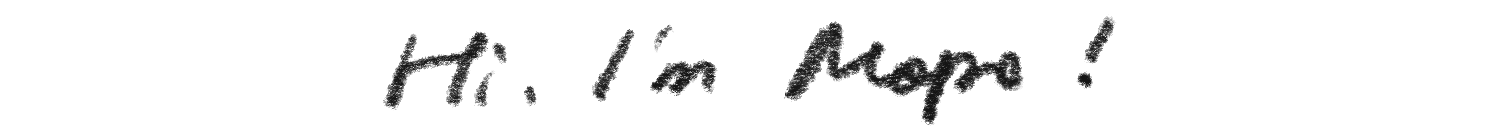
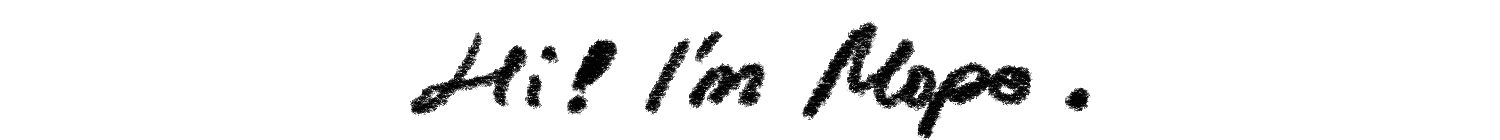
style(site): refine typography and hide inner-page map - tune v2 intro, announcement, and News list typography - use separate handwriting test images for home and About - show the Map toggle only on the homepage while preserving its code

Changed region(s): [[0.2453, 0.1143, 0.7667, 1.0]]

diff --git a/assets/css/custom.css b/assets/css/custom.css
@@ -67,7 +67,6 @@ hgroup > h1,
 hgroup > h2,
 .card > div > h2,
 .responsive-title,
-.blog-title,
 .home-v2 .home-v2__works-heading > h2 {
     font-family: var(--font-mopo-cm);
     font-style: normal !important;
@@ -174,7 +173,7 @@ html.announcement-dismissed .announcement-bar {
     padding: 0;
     box-sizing: border-box;
     color: inherit;
-    font-size: 0.78rem;
+    font-size: 0.936rem;
     font-weight: 450;
     line-height: 1;
     text-decoration: none;
@@ -203,7 +202,7 @@ html.announcement-dismissed .announcement-bar {
 
 .announcement-type {
     color: inherit;
-    font-size: 0.68rem;
+    font-size: 0.816rem;
     font-weight: 700;
     letter-spacing: 0.065em;
     line-height: 1;
@@ -219,7 +218,7 @@ html.announcement-dismissed .announcement-bar {
 
 .announcement-arrow {
     margin-left: 0.45rem;
-    font-size: 1rem;
+    font-size: 1.2rem;
     line-height: 1;
     transition: transform 180ms ease;
 }
@@ -297,7 +296,7 @@ html.announcement-dismissed .announcement-bar {
         display: flex;
         justify-content: center;
         padding: 0;
-        font-size: 0.72rem;
+        font-size: 0.864rem;
         line-height: 1;
         white-space: nowrap;
     }
@@ -307,7 +306,7 @@ html.announcement-dismissed .announcement-bar {
     }
 
     .announcement-type {
-        font-size: 0.62rem;
+        font-size: 0.744rem;
         letter-spacing: 0.05em;
     }
 
@@ -315,14 +314,14 @@ html.announcement-dismissed .announcement-bar {
         display: inline;
         margin: 0;
         padding: 0;
-        font-size: 0.72rem;
+        font-size: 0.864rem;
         line-height: 1;
     }
 
     .announcement-arrow {
         position: static;
         margin-left: 0.35rem;
-        font-size: 0.9rem;
+        font-size: 1.08rem;
     }
 
     .announcement-close {
@@ -763,6 +762,10 @@ html.announcement-dismissed .announcement-bar {
         max-height: 100%;
         object-fit: contain;
     }
+
+    .home-v2 .home-v2__intro-strip--statement {
+        transform: translateY(1rem);
+    }
 }
 
 @media screen and (min-width: 768px) and (max-height: 800px) {
@@ -1101,12 +1104,13 @@ html.announcement-dismissed .announcement-bar {
     transform: translateX(5px);
 }
 
-/* 恢复旧版字体设定 */
 .blog-title {
     margin: 0 0 0.3rem 0;
     font-size: 1.2rem;
     color: #111;
-    font-weight: 700;
+    font-family: var(--font-mopo-af);
+    font-style: normal;
+    font-weight: 600;
     /* 核心修改：确保标题能自由伸展以占满空间 */
     flex: 1; 
     min-width: 0;
@@ -1189,12 +1193,18 @@ html.announcement-dismissed .announcement-bar {
 
 .about-content-wrapper .about-handwritten-intro {
     line-height: 0;
+    margin: 0 0 1.5rem;
 }
 
 .about-content-wrapper .about-handwritten-intro img {
     display: block;
     width: 100%;
     height: auto;
+    margin: 0;
+}
+
+.about-content-wrapper .about-handwritten-intro + p {
+    margin-top: 0;
 }
 
 .about-content-wrapper blockquote {
@@ -1747,8 +1757,14 @@ nav.categories > ul li > a {
     font-size: 0.89375rem;
 }
 
-.home-v2 .home-v2__placeholder-description {
-    font-size: 20.8px;
+.home-v2 .home-v2__intro-strip--collage .home-v2__placeholder-subtitle {
+    font-size: 30px;
+    font-weight: 700 !important;
+}
+
+.home-v2 .home-v2__intro-strip--collage .home-v2__placeholder-description {
+    font-size: 27.04px;
+    font-style: italic;
 }
 
 @media screen and (min-width: 768px) {

diff --git a/layouts/partials/header.html b/layouts/partials/header.html
@@ -10,7 +10,7 @@
       {{ .Site.Title }}
     </a>
   {{ end }}
-  {{ if site.Menus.main }}
+  {{ if and .IsHome site.Menus.main }}
     <ul>
       <li>
         <button class="btn mopo-map-toggle" id="menu-toggle" aria-expanded="false" type="button" title="Map" aria-label="Toggle navigation map">

diff --git a/content/about/index.md b/content/about/index.md
@@ -10,7 +10,7 @@ weight: 6
     <img src="/images/me.jpg" alt="Mopo's Portrait">
 </div>
 
-<h1 class="about-handwritten-intro"><img src="/images/hello.png" width="1500" height="140" alt="Hi, I'm Mopo."></h1>
+<h1 class="about-handwritten-intro"><img src="/images/hello_left.png" width="1500" height="140" alt="Hi, I'm Mopo."></h1>
 
 I'm a Chinese freelance illustrator based in Germany.
 
